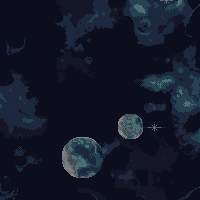
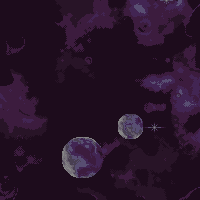
change theme

diff --git a/game.js b/game.js
@@ -146,7 +146,7 @@ function updateAndDrawMeteors() {
   });
 
   // Periodically add new meteors
-  if (frameCount % 15 === 0) {
+  if (frameCount % 20 === 0) {
     createMeteor();
   }
 }
@@ -185,22 +185,17 @@ function drawTitleText() {
   text("LUNA NEW YEAR", width / 2, height / 2 - 50); // Keep the title in its original position
   text("LUNA NEW YEAR", width / 2 + 2, height / 2 - 50 + 2);
     
+  fill(107, 45, 95); // Bright red for a classic retro arcade look
+  textSize(32); // Size for "Start Game" text
+  text("Press Enter to Start", width / 2, height - 250); // Position it 100 pixels above the bottom
+    
   fill(78, 81, 128);
   textSize(22);
   text("W = THRUST, A = L-BOOST, D = R-BOOST", width /6, height - 30);
 
   // Blinking effect for "Start Game" text
-  if (frameCount % 60 < 30) { // Toggle visibility every 30 frames for blinking effect
-    // "Start Game" text moved towards the bottom
-    fill(255, 0, 0); // Bright red for a classic retro arcade look
-    textSize(32); // Size for "Start Game" text
-    text("Start Game", width / 2, height - 250); // Position it 100 pixels above the bottom
-
-    // Adding glow effect while maintaining the blink
-    fill(255, 255, 0); // Strobe color for shadow/glow
-    textSize(33); // Slightly larger size for a glow effect
-    text("Start Game", width / 2 + 2, height - 250 + 2); // Offset position for shadow/glow
-      
+  if (frameCount % 60 < 30) { // Toggle visibility every 30 frames for blinking effect   
+    fill(255, 255, 0);
     textSize(22);
     text("insert (1) coin", width / 2 + 2, height - 50);
     
@@ -260,14 +255,13 @@ function drawFuelEndGameScreen() {
 
   // Blinking effect for "Game Over" text
   if (frameCount % 60 < 30) {
-    // Yellow shadow
-    fill(255, 255, 0); // Set the shadow color to yellow
-    text("YOU RAN OUT OF FUEL", width / 2 + 5, height / 2 + 5); // Offset the shadow slightly
+    fill(255, 87, 51); 
+    text("YOU RAN OUT OF FUEL", width / 2 + 2, height / 2 + 2); // Offset the shadow slightly
 
     // Primary text color
-    fill(255, 0, 0); // Set the primary text color to red
-    text("YOU RAN OUT OF FUEL", width / 2, height / 2); // Draw the primary text on top
-
+//    fill(255, 0, 0); // Set the primary text color to red
+//    text("YOU RAN OUT OF FUEL", width / 2, height / 2); // Draw the primary text on top
+    fill(255, 255, 0);
     textSize(22);
     text("insert (1) coin", width / 2 + 2, height - 50);
   }
@@ -281,14 +275,11 @@ function drawLostEndGameScreen() {
 
   // Blinking effect for "Game Over" text
   if (frameCount % 60 < 30) {
-    // Yellow shadow
-    fill(255, 255, 0); // Set the shadow color to yellow
-    text("LOST IN SPACE", width / 2 + 5, height / 2 + 5); // Offset the shadow slightly
-
     // Primary text color
-    fill(255, 0, 0); // Set the primary text color to red
+    fill(255, 87, 51); // Set the primary text color to red
     text("LOST IN SPACE", width / 2, height / 2); // Draw the primary text on top
-
+    
+    fill(255, 255, 0);
     textSize(22);
     text("insert (1) coin", width / 2 + 2, height - 50);
   }
@@ -302,14 +293,12 @@ function drawCollisionEndGameScreen() {
  
    // Blinking effect for "Game Over" text
    if (frameCount % 60 < 30) {
-     // Yellow shadow
-     fill(255, 255, 0); // Set the shadow color to yellow
-     text("YOU COLLIDED WITH A CELESTIAL BODY", width / 2 + 5, height / 2 + 5); // Offset the shadow slightly
  
      // Primary text color
-     fill(255, 0, 0); // Set the primary text color to red
+     fill(255, 87, 51); // Set the primary text color to red
      text("YOU COLLIDED WITH A CELESTIAL BODY", width / 2, height / 2); // Draw the primary text on top
  
+     fill(255, 255, 0);
      textSize(22);
      text("insert (1) coin", width / 2 + 2, height - 50);
    }

diff --git a/index.html b/index.html
@@ -12,10 +12,23 @@
   </head>
   <body>
       
-    
+    <div style="padding-top: 2%">
+      <img src="assets/title.png">
+    </div>
     <div id="game">
     <!-- p5 window here! -->
     </div>
-      
+    <script>
+      // prevent itch.io scrolling
+      window.addEventListener("keydown", (e) => {
+        if (
+          ["ArrowUp", "ArrowDown", "ArrowLeft", "ArrowRight", " "].includes(
+            e.key
+          )
+        ) {
+          e.preventDefault();
+        }
+      });
+    </script>  
   </body>
 </html>

diff --git a/styles.css b/styles.css
@@ -12,9 +12,13 @@ canvas {
     max-width: 100%;
     object-fit: contain;
     padding: 10%;
-    padding-left: 10%;
-    padding-right: 10%;
     margin-left: auto;
     margin-right: auto;
     display: block;
+}
+
+img {
+  left: 50%;
+  transform: translateX(-50%);
+  position: absolute;
 }
